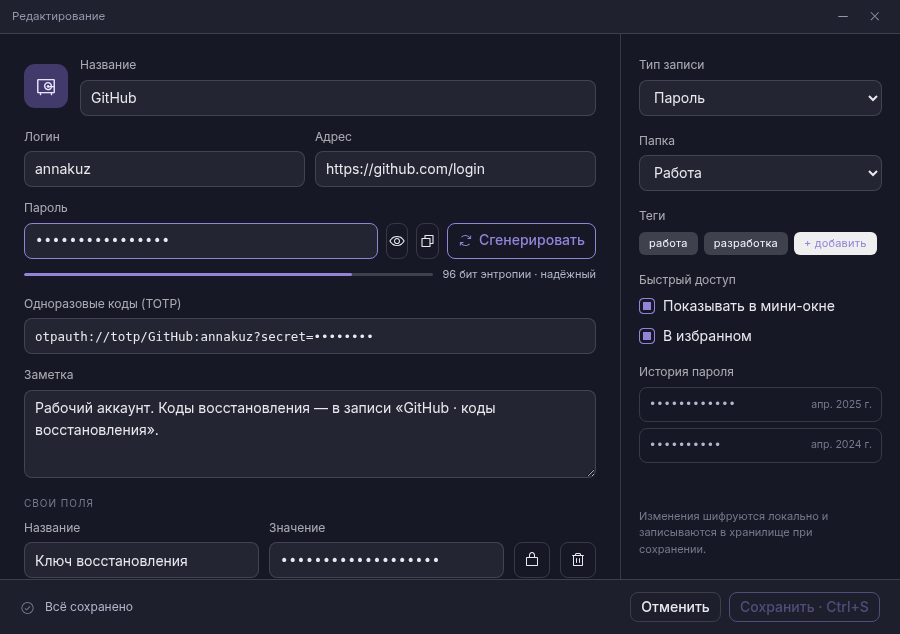
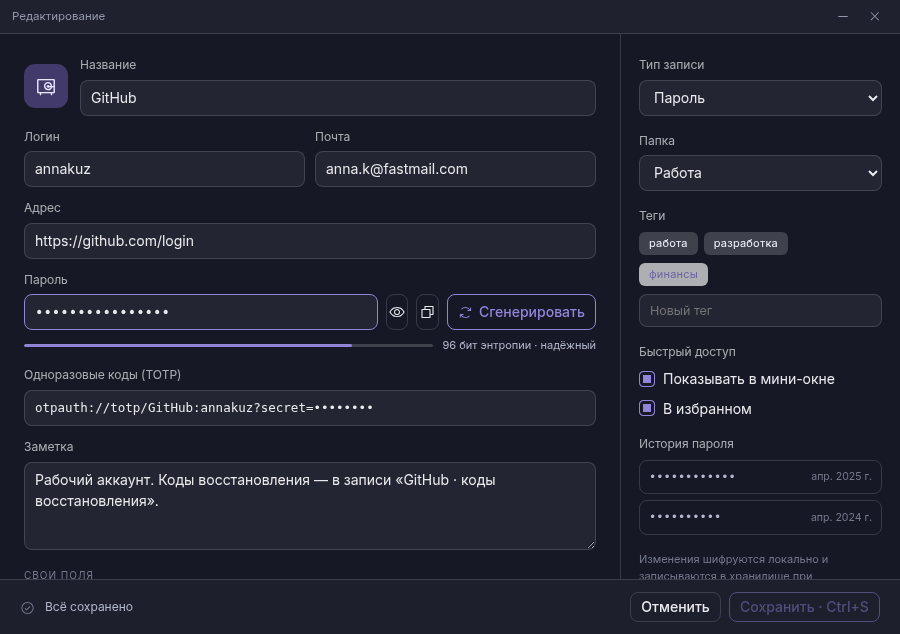
Теги: выбор из уже использованных вместо повторного набора
В карточке записи теги приходилось вводить руками через системный
prompt(), а имеющиеся показывались там же строчкой текста — прочитать
можно, нажать нельзя. При десятке тегов это гарантированный разнобой:
«работа» и «Работа» рядом.

Теперь под выбранными тегами стоит ряд кнопок с тегами хранилища —
частые впереди, уже выбранные скрыты; длинный список сворачивается до
восьми штук с кнопкой «ещё N». Поле ввода под ними служит и поиском по
этому ряду, и вводом нового тега: Enter добавляет, Esc очищает поле, не
закрывая карточку. Придуманный тут же тег сразу попадает в подсказки —
сняв его по ошибке, набирать заново не придётся.

Данные для этого уже были: команда `tags` отдаёт имена с числом записей,
и карточка их загружала. Бэкенд не тронут.

diff --git a/ui/js/editor.js b/ui/js/editor.js
@@ -21,7 +21,11 @@ let draft = null;
 let saved = null;      // снимок для сравнения «есть ли несохранённое»
 let allFolders = [];
 let allTags = [];
+let tagsExpanded = false;   // подсказки развёрнуты целиком
 const refs = {};
+
+// Сколько подсказок помещается в колонку, не превращая её в стену тегов.
+const TAG_SUGGEST_LIMIT = 8;
 
 const snapshot = () => JSON.stringify(draft);
 const isDirty = () => snapshot() !== saved;
@@ -202,6 +206,12 @@ function renderSidebar() {
     allFolders.map((f) => h('option', { value: f.id, selected: draft.folder === f.id }, f.name)));
 
   refs.tagRow = h('div', { class: 'tagrow' });
+  refs.tagSuggest = h('div', { class: 'tagrow tagrow-suggest' });
+  refs.tagInput = h('input', {
+    class: 'input input-tag', type: 'text', placeholder: 'Новый тег',
+    onInput: drawSuggestions,
+    onKeyDown: onTagKey,
+  });
   drawTags();
 
   refs.history = h('div', { style: 'display:flex;flex-direction:column;gap:6px' });
@@ -226,7 +236,7 @@ function renderSidebar() {
 
     h('div', {},
       h('div', { style: 'font-size:12px;color:color-mix(in srgb,var(--color-text) 70%,transparent);margin-bottom:6px' }, 'Теги'),
-      refs.tagRow),
+      refs.tagRow, refs.tagSuggest, refs.tagInput),
 
     h('div', {},
       h('div', { style: 'font-size:12px;color:color-mix(in srgb,var(--color-text) 70%,transparent);margin-bottom:6px' }, 'Быстрый доступ'),
@@ -254,7 +264,7 @@ function renderSidebar() {
 }
 
 function drawTags() {
-  mount(clear(refs.tagRow), 
+  mount(clear(refs.tagRow),
     draft.tags.map((t) => h('button', {
       class: 'tag tag-neutral is-button', type: 'button', title: 'Убрать тег',
       onClick: () => {
@@ -263,23 +273,60 @@ function drawTags() {
         drawTags();
       },
     }, t)),
-    h('button', {
-      class: 'tag tag-outline is-button', type: 'button', onClick: addTag,
-    }, '+ добавить'));
+    draft.tags.length ? null : h('span', { class: 'dim', style: 'font-size:11.5px' }, 'Пока ни одного'));
+  drawSuggestions();
 }
 
-function addTag() {
-  const suggestions = allTags.map(([name]) => name).filter((n) => !draft.tags.includes(n));
-  const name = prompt(
-    suggestions.length
-      ? `Тег\n\nУже используются: ${suggestions.slice(0, 12).join(', ')}`
-      : 'Тег',
-    '');
-  const clean = (name || '').trim();
+/**
+ * Подсказки — теги, уже встречающиеся в хранилище: частые впереди, выбранные
+ * скрыты. Набранное в поле сужает список, поэтому одно и то же поле служит
+ * и поиском по своим тегам, и вводом нового.
+ */
+function drawSuggestions() {
+  const query = refs.tagInput.value.trim().toLowerCase();
+  const rest = allTags
+    .filter(([name]) => !draft.tags.includes(name) && name.toLowerCase().includes(query))
+    .sort((a, b) => b[1] - a[1] || a[0].localeCompare(b[0], 'ru'))
+    .map(([name]) => name);
+  // Прятать один-единственный тег за кнопкой «ещё» — обмен клика на клик.
+  const cut = tagsExpanded || rest.length <= TAG_SUGGEST_LIMIT + 1
+    ? rest.length : TAG_SUGGEST_LIMIT;
+
+  mount(clear(refs.tagSuggest),
+    rest.slice(0, cut).map((name) => h('button', {
+      class: 'tag tag-outline is-button', type: 'button', title: 'Добавить тег',
+      onClick: () => pickTag(name),
+    }, name)),
+    cut < rest.length ? h('button', {
+      class: 'tag tag-more is-button', type: 'button',
+      onClick: () => { tagsExpanded = true; drawSuggestions(); },
+    }, `ещё ${rest.length - cut}`) : null);
+}
+
+function pickTag(name) {
+  const clean = name.trim();
   if (!clean || draft.tags.includes(clean)) return;
   draft.tags.push(clean);
+  // Придуманный здесь тег сразу попадает в подсказки: сняв его по ошибке,
+  // пользователь не должен набирать то же слово заново.
+  if (!allTags.some(([n]) => n === clean)) allTags.push([clean, 0]);
+  refs.tagInput.value = '';
   markDirty();
   drawTags();
+}
+
+function onTagKey(e) {
+  if (e.key === 'Escape' && refs.tagInput.value) {
+    // Esc над непустым полем чистит набранное, а не закрывает карточку.
+    e.stopPropagation();
+    e.preventDefault();
+    refs.tagInput.value = '';
+    drawSuggestions();
+    return;
+  }
+  if (e.key !== 'Enter') return;
+  e.preventDefault();
+  pickTag(refs.tagInput.value);
 }
 
 /** История паролей приходит из ядра только точками и датой — сами прежние
@@ -335,6 +382,7 @@ async function open(id) {
   draft = await loadDraft(id ?? null);
   draft.custom ||= [];
   draft.tags ||= [];
+  tagsExpanded = false;
   if (id === null || id === undefined) draft.quick_access = true;
   saved = snapshot();
 

diff --git a/ui/app.css b/ui/app.css
@@ -217,6 +217,14 @@ button { font: inherit; }
 .tagrow { display: flex; flex-wrap: wrap; gap: 6px; }
 .tag.is-button { cursor: pointer; border: 0; font: inherit; font-size: 11px; }
 
+/* Подсказки в карточке: тусклее выбранных тегов, чтобы ряды не путались
+   между собой. Пустой ряд не должен занимать отступ. */
+.tagrow-suggest { margin-top: 8px; opacity: 0.7; }
+.tagrow-suggest:hover { opacity: 1; }
+.tagrow-suggest:empty { display: none; }
+.tag.tag-more { background: transparent; color: var(--color-neutral-600); }
+.input-tag { margin-top: 8px; min-height: 30px; font-size: 12.5px; }
+
 /* Поле поиска, встроенное в чужую рамку: своей рамки и своего кольца фокуса
    у него быть не должно — рамку рисует контейнер вокруг. */
 .input-bare {
